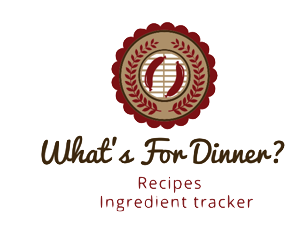
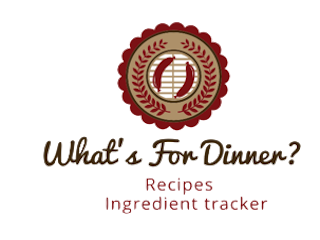
Adding features to home page

diff --git a/index.css b/index.css
@@ -15,13 +15,36 @@ body {
     resize: none;
 }
 
-#image {
-    height: 75%;
-    width: 100%;
+#titles h1 {
+    background-image: url(/images/title1.png);
+    background-size: 280px;
+    background-color: #e6d8ba;
+    margin: 500px;
+    margin-top: -19px;
+    margin-right: 24px;
     position: fixed;
-    bottom: 165px;
-    background-image: url(/images/food7.jpg);
-    background-size: cover;
+    width: 23%;
+    height: 117px;
+    display: -webkit-inline-box;
+    cursor: pointer;
+    z-index: 99999;
+}
+
+#titles h2 {
+    background-image: url(/images/title1.png);
+    border-bottom-left-radius: 82px;
+    border-bottom-right-radius: 82px;
+    background-size: 280px;
+    background-color: #e6d8ba;
+    margin: 500px;
+    margin-top: -19px;
+    margin-right: 24px;
+    position: fixed;
+    width: 23%;
+    z-index: 8;
+    height: 200px;
+    display: -webkit-inline-box;
+    cursor: pointer;
 }
 
 #container {
@@ -31,27 +54,10 @@ body {
     height: 100px;
     background: #2e3601;
     width: 100%;
-    z-index: 10;
+    z-index: 20;
     position: fixed;
     color: whitesmoke;
     font-family: 'EB Garamond', serif;
-}
-
-#titles header {
-    background-image: url(/images/title1.png);
-    border-bottom-left-radius: 82px;
-    border-bottom-right-radius: 82px;
-    background-size: 284px;
-    background-color: #e6d8ba;
-    margin: 500px;
-    margin-top: -19px;
-    margin-right: 24px;
-    position: fixed;
-    width: 23%;
-    height: 200px;
-    display: -webkit-inline-box;
-    cursor: pointer;
-    z-index: 99999;
 }
 
 #container ul {
@@ -97,7 +103,17 @@ body {
     position: relative;
     top: 490px;
     height: 1500px;
+    z-index: 9;
     background: #e6d8ba;
+}
+
+#image {
+    height: 75%;
+    width: 100%;
+    position: fixed;
+    bottom: 165px;
+    background-image: url(/images/food7.jpg);
+    background-size: cover;
 }
 
 .homepage {

diff --git a/index.html b/index.html
@@ -10,8 +10,8 @@
 
 <body>
     <div id="titles">
-        <header> //do nothing yet </header>
-    </div>
+        <h1> </h1>
+        <h2></h2> </div>
     <div id="container">
         <header>
             <link href="https://fonts.googleapis.com/css?family=Playfair+Display+SC" rel="stylesheet">
